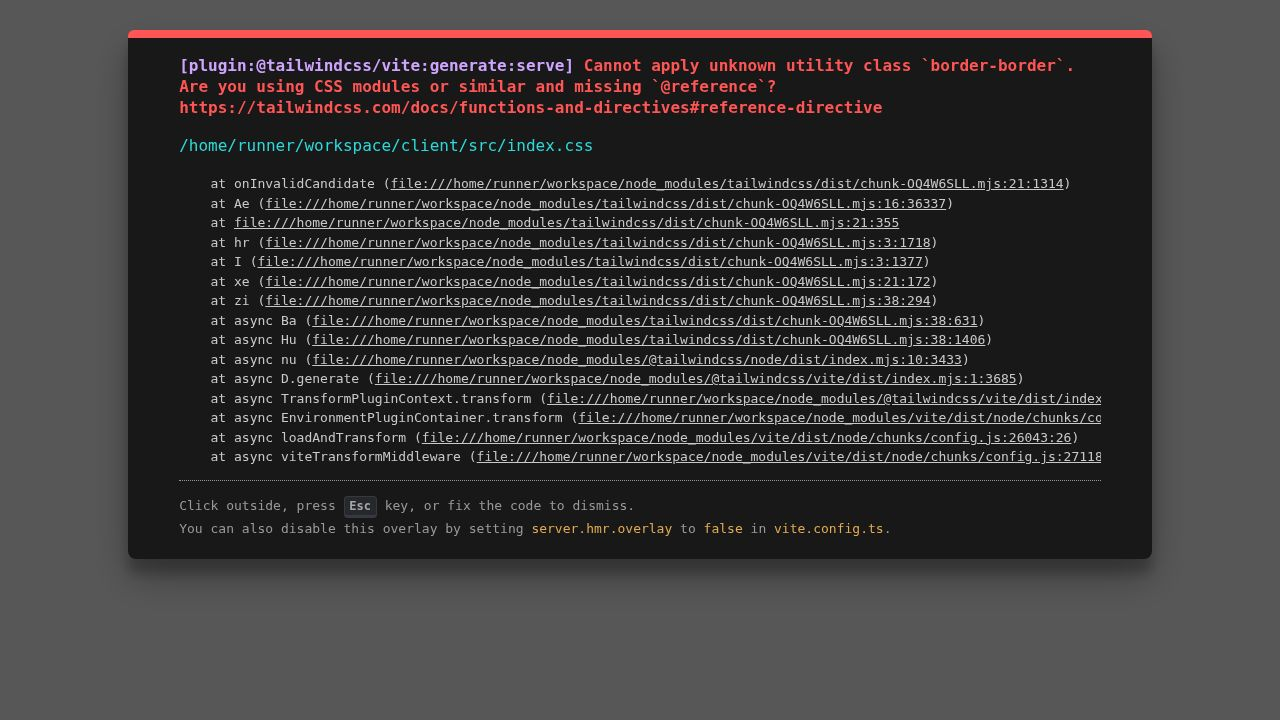
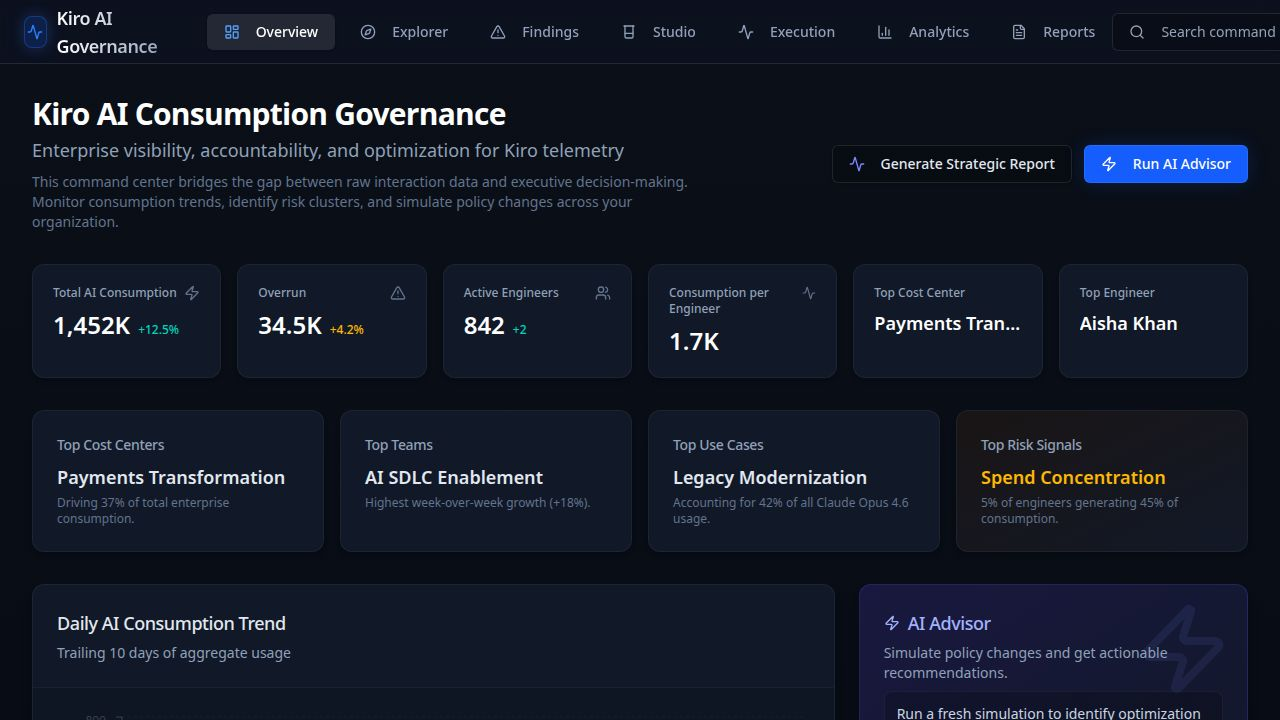
Connect search bar to command palette for improved functionality
Updated `CommandPalette.tsx` to handle keyboard shortcuts for opening and closing the palette. Modified `Layout.tsx` to make the search bar trigger the command palette via keyboard events when clicked.

Replit-Commit-Author: Agent
Replit-Commit-Session-Id: 904367d0-4823-4d88-be1a-3b50cf249286
Replit-Commit-Checkpoint-Type: full_checkpoint
Replit-Commit-Event-Id: 71077ab0-18c9-4f05-b345-8eb0639ac140
Replit-Commit-Screenshot-Url: https://storage.googleapis.com/screenshot-production-us-central1/0e44c65e-c8be-4693-b2af-75ea31c09af9/904367d0-4823-4d88-be1a-3b50cf249286/eKv46lL
Replit-Helium-Checkpoint-Created: true

diff --git a/client/src/components/layout/Layout.tsx b/client/src/components/layout/Layout.tsx
@@ -72,7 +72,14 @@ export default function Layout({ children }: LayoutProps) {
 
         <div className="flex items-center gap-4 ml-auto">
           {/* Global Search Trigger */}
-          <Button variant="outline" className="hidden lg:flex w-64 justify-start text-muted-foreground bg-black/20 border-white/10 hover:bg-white/5 hover:text-slate-200 shadow-inner">
+          <Button 
+            variant="outline" 
+            className="hidden lg:flex w-64 justify-start text-muted-foreground bg-black/20 border-white/10 hover:bg-white/5 hover:text-slate-200 shadow-inner"
+            onClick={() => {
+              // Dispatch a keyboard event to trigger the command palette
+              document.dispatchEvent(new KeyboardEvent('keydown', { key: 'k', metaKey: true }));
+            }}
+          >
             <Search className="mr-2 h-4 w-4" />
             <span className="text-sm font-normal">Search command palette...</span>
             <kbd className="ml-auto pointer-events-none inline-flex h-5 select-none items-center gap-1 rounded border border-white/10 bg-white/5 px-1.5 font-mono text-[10px] font-medium text-slate-400">
@@ -92,7 +99,14 @@ export default function Layout({ children }: LayoutProps) {
           </div>
 
           <div className="flex items-center gap-1">
-            <Button variant="ghost" size="icon" className="text-slate-400 hover:text-slate-100 hover:bg-white/5 rounded-full">
+            <Button 
+              variant="ghost" 
+              size="icon" 
+              className="text-slate-400 hover:text-slate-100 hover:bg-white/5 rounded-full"
+              onClick={() => {
+                document.dispatchEvent(new KeyboardEvent('keydown', { key: 'k', metaKey: true }));
+              }}
+            >
               <Search className="h-4 w-4 lg:hidden" />
             </Button>
             <Button variant="ghost" size="icon" className="text-slate-400 hover:text-slate-100 hover:bg-white/5 rounded-full relative">

diff --git a/client/src/components/CommandPalette.tsx b/client/src/components/CommandPalette.tsx
@@ -10,10 +10,12 @@ export function CommandPalette() {
 
   useEffect(() => {
     const down = (e: KeyboardEvent) => {
+      // Toggle palette with Cmd+K or Ctrl+K
       if (e.key === "k" && (e.metaKey || e.ctrlKey)) {
         e.preventDefault();
         setOpen((open) => !open);
       }
+      // Escape closes the palette
       if (e.key === "Escape") {
         setOpen(false);
       }
